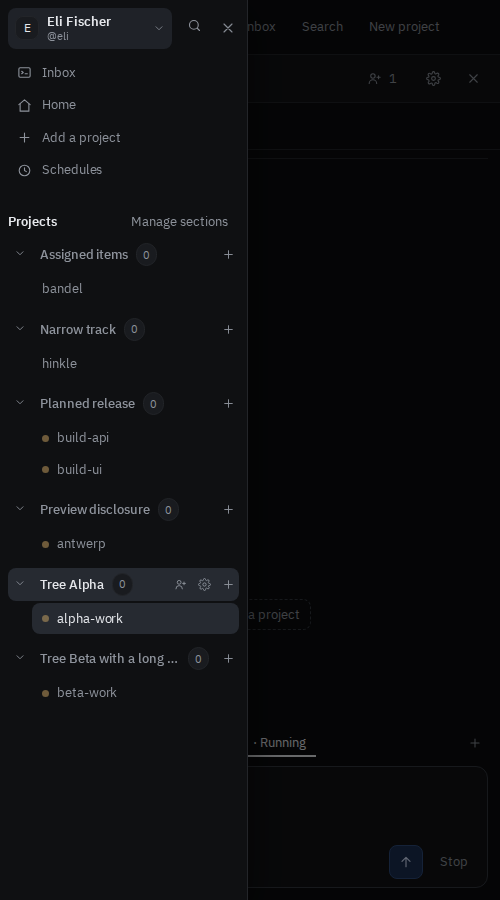
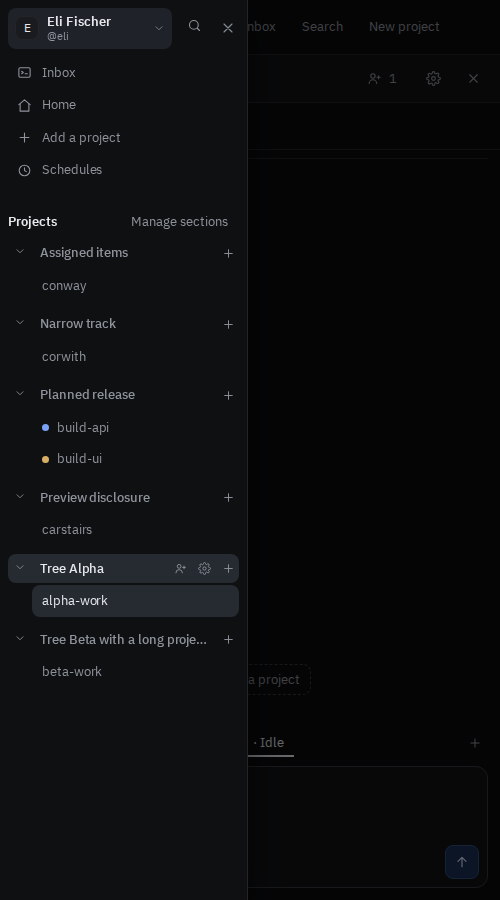
Apply private track access and address sidebar review

diff --git a/assets/test/project_tree.test.js b/assets/test/project_tree.test.js
@@ -52,11 +52,11 @@ test('quick-jump chooses the visible trigger, arrows wrap and Enter opens the fi
   mobile.onclick = () => { opened++ }
   const {hook} = mountHook(QuickJump, '#workspace')
   key(window, 'K', {ctrlKey: true})
-  key(window, 'k', {metaKey: true})
+  key(window, 'k', {ctrlKey: true})
   expect(opened).toBe(2)
   expect(document.activeElement).toBe(mobile)
   document.querySelector('#workspace').insertAdjacentHTML('beforeend', `<div id="search-dialog" role="dialog"><input id="search-query"><a href="#a" data-jump-result>A</a><a href="#b" data-jump-result>B</a></div>`)
-  key(window, 'k', {metaKey: true})
+  key(window, 'k', {ctrlKey: true})
   expect(opened).toBe(2)
   const input = document.querySelector('input'), [a,b] = document.querySelectorAll('a')
   input.focus(); key(input, 'ArrowDown'); expect(document.activeElement).toBe(a)
@@ -71,3 +71,25 @@ test('quick-jump chooses the visible trigger, arrows wrap and Enter opens the fi
   document.querySelector('#search-dialog').remove()
   key(window, 'k', {ctrlKey: true}); expect(opened).toBe(2)
 })
+
+for (const [platform, modifier, other] of [['MacIntel', 'metaKey', 'ctrlKey'], ['Linux x86_64', 'ctrlKey', 'metaKey']]) {
+  test(`shortcut respects ${platform} and preserves editing shortcuts`, () => {
+    Object.defineProperty(navigator, 'platform', {value: platform, configurable: true})
+    document.body.innerHTML = `<div id="workspace"><button data-quick-jump-trigger>Search</button><textarea></textarea><input><select></select><div contenteditable="true"><span>Compose</span></div><div role="textbox"></div><div class="xterm"><span>Terminal</span></div></div>`
+    const button = document.querySelector('button')
+    button.getClientRects = () => [{}]
+    let opened = 0
+    button.onclick = () => opened++
+    const {hook} = mountHook(QuickJump, '#workspace')
+    expect(key(button, 'k', {[other]: true})).toBe(true)
+    expect(opened).toBe(0)
+    for (const target of document.querySelectorAll('textarea, input, select, [contenteditable] span, [role="textbox"], .xterm span')) {
+      expect(key(target, 'k', {[modifier]: true})).toBe(true)
+    }
+    expect(opened).toBe(0)
+    expect(key(button, 'k', {[modifier]: true})).toBe(false)
+    expect(opened).toBe(1)
+    hook.destroyed()
+    Object.defineProperty(navigator, 'platform', {value: 'Linux x86_64', configurable: true})
+  })
+}

diff --git a/browser/project-switcher.spec.js b/browser/project-switcher.spec.js
@@ -56,6 +56,11 @@ test('project tree and quick-jump navigate with keyboard and fit desktop and pho
     if (width === 500) await page.getByRole('button', { name: 'Close menu', exact: true }).click();
     const trigger = page.locator(width === 500 ? '#mobile-quick-jump-trigger' : '#quick-jump-trigger');
     if (width === 1280) await page.locator('#yard-toggle').click();
+    // Editing shortcuts belong to the composer, even while global search is available.
+    await page.locator('textarea').first().focus();
+    await page.keyboard.press('Control+k');
+    await expect(page.locator('#search-dialog')).toHaveCount(0);
+    await trigger.focus();
     await page.keyboard.press('Control+k');
     const picker = page.getByRole('dialog', { name: 'Search', exact: true });
     const search = picker.getByLabel('Search projects and tracks');
@@ -68,10 +73,11 @@ test('project tree and quick-jump navigate with keyboard and fit desktop and pho
     await page.keyboard.press('Enter');
     await expect(page).toHaveURL(new RegExp(`${projects[1].track}$`));
     await expect(picker).toHaveCount(0);
-    await page.keyboard.press('Meta+k');
+    await trigger.focus();
+    await page.keyboard.press('Control+k');
     await expect(search).toBeFocused();
     await search.fill('Tree Alpha');
-    await expect(picker.locator(`a[href='${projects[0].path}'] .badge`)).toHaveText('0');
+    await expect(picker.locator(`a[href='${projects[0].path}'] .badge`)).toHaveCount(0);
     expect((await new AxeBuilder({ page }).withTags(['wcag2a', 'wcag2aa']).analyze()).violations).toEqual([]);
     await page.keyboard.press('Escape');
     await expect(picker).toHaveCount(0);

diff --git a/browser/private-tracks.spec.js b/browser/private-tracks.spec.js
@@ -16,7 +16,7 @@ test('private tracks are hidden from project members until invited', async ({ pa
   await page.getByRole('button', { name: 'Invite', exact: true }).click();
   await expect(page.locator('#people-dialog')).toContainText('@privacyguest');
   await page.keyboard.press('Escape');
-  await page.getByRole('navigation', { name: 'Project tracks', exact: true }).getByRole('button', { name: 'New track', exact: true }).click();
+  await page.locator('#yard .workspace-project.current .project-add').click();
   const track = page.getByRole('dialog', { name: 'New track', exact: true });
   await expect(track.getByLabel('Sharing', { exact: true })).toHaveValue('project');
   await track.getByLabel('Sharing', { exact: true }).selectOption('private');
@@ -33,6 +33,10 @@ test('private tracks are hidden from project members until invited', async ({ pa
     await signIn(guest, 'privacyguest', projectPath);
     await expect(guest.locator('#project-sections[aria-busy="false"]')).toBeAttached();
     await expect(guest.locator('body')).not.toContainText('secret-investigation');
+    await guest.locator('#quick-jump-trigger').click();
+    await guest.getByLabel('Search projects and tracks').fill('secret-investigation');
+    await expect(guest.locator('#search-dialog [data-jump-result]')).toHaveCount(0);
+    await guest.keyboard.press('Escape');
     await guest.goto(trackPath);
     await expect(guest).toHaveURL(new RegExp(`${projectPath}$`));
     await expect(guest.locator('body')).not.toContainText('secret-investigation');

diff --git a/assets/css/app.css b/assets/css/app.css
@@ -1637,9 +1637,8 @@ body:has(.phx-error) #request-progress { display: none; }
 
 /* Personal project sections in the sidebar. */
 /* A section's name is a group label: small, quiet, above its projects. The
-   unsectioned group is last and has a label only beside named sections; when
-   it is empty it appears only while a project is being dragged, as the place
-   to drop one to take it out of its section. */
+   unsectioned group is last and has a label only beside named sections. It
+   remains a drop target for moving a project out of its section. */
 .project-section + .project-section { margin-top: 6px; }
 .section-label { display: flex; align-items: center; min-width: 0; }
 .section-toggle, .section-name {
@@ -1652,8 +1651,6 @@ body:has(.phx-error) #request-progress { display: none; }
 .section-toggle .truncate { flex: 1; }
 .section-toggle .dim { font-weight: 400; font-variant-numeric: tabular-nums; }
 .section-empty { margin: 0; padding: 4px 6px 6px 24px; font-size: 12px; }
-.project-section-idle { display: none; }
-#switcher-sections:has(.dragging) .project-section-idle { display: block; }
 .project-section-picker { display: flex; align-items: center; gap: 8px; padding: 4px 0; }
 .project-section-picker label { flex: 1; min-width: 0; }
 .project-section-picker select { flex: 1; min-width: 0; padding: 4px; }

diff --git a/assets/js/hooks/quick_jump.js b/assets/js/hooks/quick_jump.js
@@ -2,8 +2,11 @@
 // push/pop focus stack. Arrow keys move through native navigation links.
 export const QuickJump = {
   mounted() {
+    const mac = /Mac|iPhone|iPad|iPod/.test(navigator.userAgentData?.platform || navigator.platform)
     this.onKey = event => {
-      if ((event.metaKey || event.ctrlKey) && event.key.toLowerCase() === 'k') {
+      const modifier = mac ? event.metaKey && !event.ctrlKey : event.ctrlKey && !event.metaKey
+      if (modifier && !event.altKey && event.key.toLowerCase() === 'k') {
+        if (event.target.closest?.('input, textarea, select, [contenteditable]:not([contenteditable="false"]), [role="textbox"], .xterm')) return
         if (this.el.querySelector('[role="dialog"]')) return
         const trigger = [...this.el.querySelectorAll('[data-quick-jump-trigger]')]
           .find(button => button.getClientRects().length > 0)

diff --git a/decisions/0008-the-project-switcher.md b/decisions/0008-the-project-switcher.md
@@ -27,14 +27,16 @@ RAV-11 and the navigation portion of RAV-9.
 
 - Show every accessible project in the rail, grouped by the viewer's existing
   personal sections and order, with unsectioned projects last. Sections and
-  projects collapse independently. Collapse is a per-viewer browser preference,
-  never shared project state.
+  projects collapse independently. Named sections use the viewer's saved section
+  preferences across devices; project rows and the synthetic unsectioned group
+  use local browser preferences. Neither is shared project state.
 - Each project appears once, with its unread badge and a new-track action only
   for viewers who may create tracks. Its expanded children are the open tracks
   that viewer can access. Highlight the current project and track. This tree
   replaces both the switcher control and the separate selected-project track list.
 - Search becomes quick-jump over accessible projects and tracks, opened by
-  Cmd/Ctrl-K or the visible Search button. Arrow keys and Enter select results;
+  Cmd-K on macOS, Ctrl-K elsewhere, or the visible Search button. Shortcuts
+  preserve editing keys inside text fields and terminals. Arrow keys and Enter select results;
   Escape dismisses the shared dialog and returns focus to its trigger.
 - Keep Home, Inbox with its global unread total, Schedules, Add a project and
   Manage sections reachable. Mobile uses the same tree in its navigation drawer;
